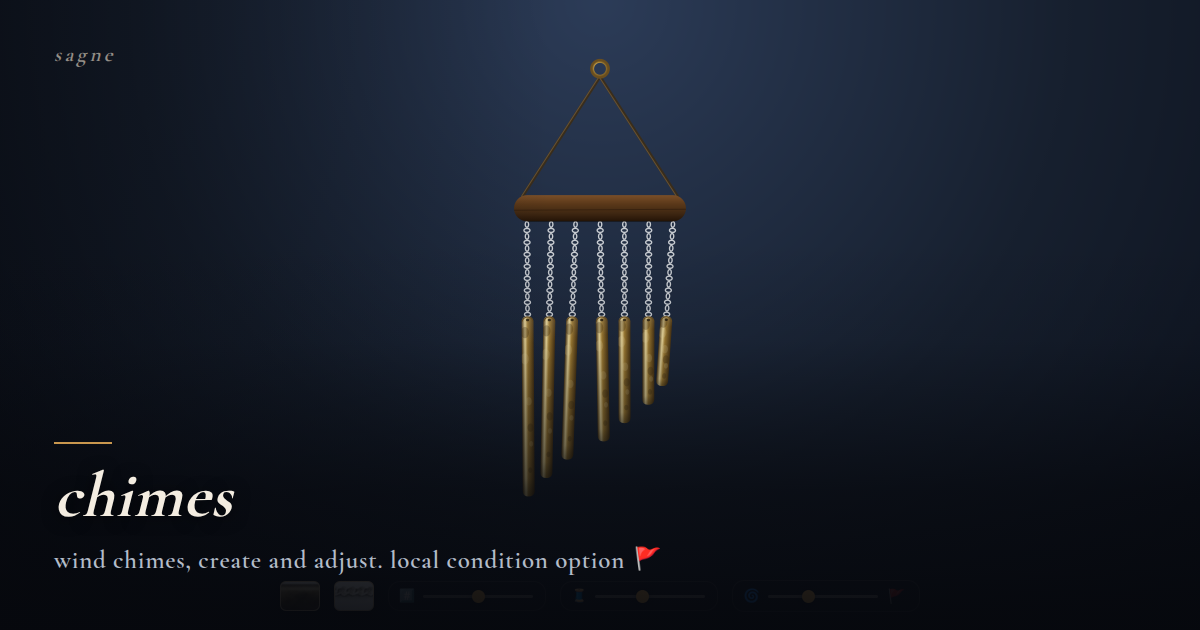
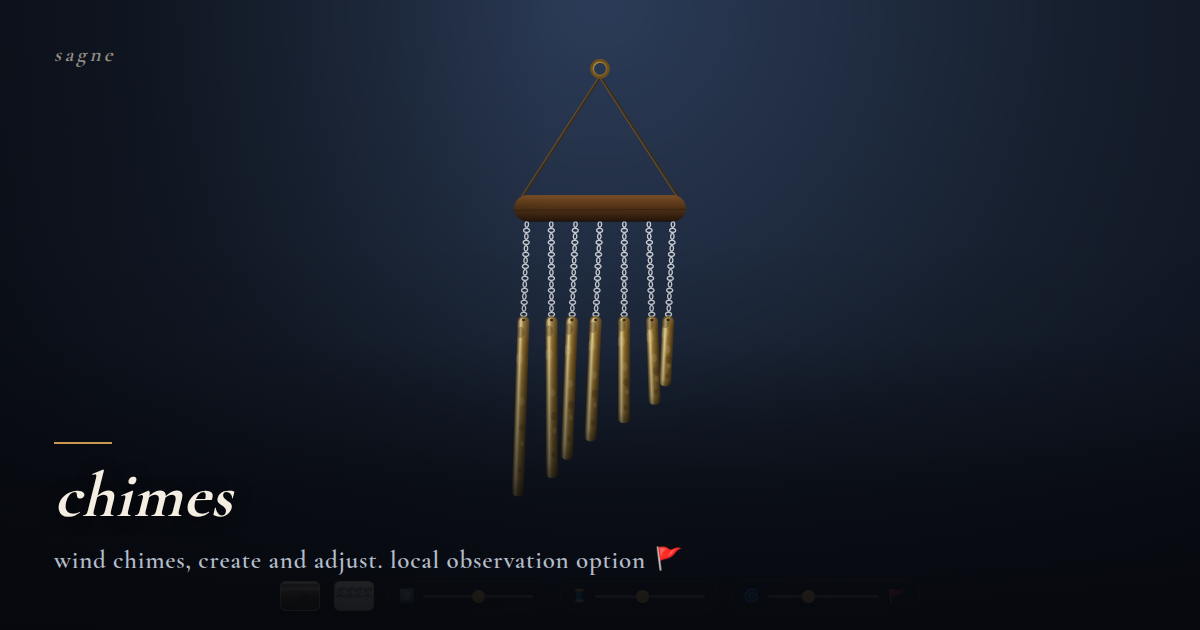
observation, not condition, on the seven
Her call after weighing telemetry, which is the literally correct word for
what these seven do and the one the software industry has spoiled: to most
readers it now means a thing collecting data about them, which is the
opposite of what this site does. Observation is the term a weather station
actually uses, nobody hears surveillance in it, and it stretches to cover
pendulum's latitude where condition did not.

Claude-Session: https://claude.ai/code/session_01FZLRpZBybpYSYBaQU5zBZo

Changed region(s): [[0.4008, 0.3619, 0.5858, 0.7841], [0.37, 0.8444, 0.555, 0.9048]]

diff --git a/windower/index.html b/windower/index.html
@@ -8,20 +8,20 @@
 <link rel="manifest" href="../manifest.json">
 <link rel="apple-touch-icon" href="../apple-touch-icon.png">
 <meta name="apple-mobile-web-app-capable" content="yes">
-<meta name="description" content="a sun, moon phase, and weather window. local condition option">
+<meta name="description" content="a sun, moon phase, and weather window. local observation option">
 <meta name="theme-color" content="#0e1c30">
 <link rel="canonical" href="https://sagne.co.uk/windower/">
 <meta property="og:type" content="website">
 <meta property="og:site_name" content="sagne">
 <meta property="og:title" content="windower — sagne">
-<meta property="og:description" content="a sun, moon phase, and weather window. local condition option">
+<meta property="og:description" content="a sun, moon phase, and weather window. local observation option">
 <meta property="og:url" content="https://sagne.co.uk/windower/">
 <meta property="og:image" content="https://sagne.co.uk/og/windower.png">
 <meta property="og:image:width" content="1200">
 <meta property="og:image:height" content="630">
 <meta name="twitter:card" content="summary_large_image">
 <meta name="twitter:title" content="windower — sagne">
-<meta name="twitter:description" content="a sun, moon phase, and weather window. local condition option">
+<meta name="twitter:description" content="a sun, moon phase, and weather window. local observation option">
 <meta name="twitter:image" content="https://sagne.co.uk/og/windower.png">
 <style>
   @import url('https://fonts.googleapis.com/css2?family=Spectral:ital,wght@0,400;0,500;1,400&family=Cormorant+Garamond:wght@500;600&display=swap');

diff --git a/fireflies/index.html b/fireflies/index.html
@@ -5,20 +5,20 @@
 <meta name="viewport" content="width=device-width, initial-scale=1.0, maximum-scale=1.0, user-scalable=no">
 <title>fireflies — sagne</title>
 <link rel="icon" type="image/svg+xml" href="../favicon.svg">
-<meta name="description" content="fireflies behavior after sunset into night. local condition option">
+<meta name="description" content="fireflies behavior after sunset into night. local observation option">
 <meta name="theme-color" content="#0e1c30">
 <link rel="canonical" href="https://sagne.co.uk/fireflies/">
 <meta property="og:type" content="website">
 <meta property="og:site_name" content="sagne">
 <meta property="og:title" content="fireflies — sagne">
-<meta property="og:description" content="fireflies behavior after sunset into night. local condition option">
+<meta property="og:description" content="fireflies behavior after sunset into night. local observation option">
 <meta property="og:url" content="https://sagne.co.uk/fireflies/">
 <meta property="og:image" content="https://sagne.co.uk/og/fireflies.png">
 <meta property="og:image:width" content="1200">
 <meta property="og:image:height" content="630">
 <meta name="twitter:card" content="summary_large_image">
 <meta name="twitter:title" content="fireflies — sagne">
-<meta name="twitter:description" content="fireflies behavior after sunset into night. local condition option">
+<meta name="twitter:description" content="fireflies behavior after sunset into night. local observation option">
 <meta name="twitter:image" content="https://sagne.co.uk/og/fireflies.png">
 <style>
   :root{ --brass:#c9974e; --parchment:#f2e9d8; }

diff --git a/conometer/index.html b/conometer/index.html
@@ -8,20 +8,20 @@
 <link rel="manifest" href="../manifest.json">
 <link rel="apple-touch-icon" href="../apple-touch-icon.png">
 <meta name="apple-mobile-web-app-capable" content="yes">
-<meta name="description" content="a pinecone responding to humidity. local condition option">
+<meta name="description" content="a pinecone responding to humidity. local observation option">
 <meta name="theme-color" content="#0e1c30">
 <link rel="canonical" href="https://sagne.co.uk/conometer/">
 <meta property="og:type" content="website">
 <meta property="og:site_name" content="sagne">
 <meta property="og:title" content="conometer — sagne">
-<meta property="og:description" content="a pinecone responding to humidity. local condition option">
+<meta property="og:description" content="a pinecone responding to humidity. local observation option">
 <meta property="og:url" content="https://sagne.co.uk/conometer/">
 <meta property="og:image" content="https://sagne.co.uk/og/conometer.png">
 <meta property="og:image:width" content="1200">
 <meta property="og:image:height" content="630">
 <meta name="twitter:card" content="summary_large_image">
 <meta name="twitter:title" content="conometer — sagne">
-<meta name="twitter:description" content="a pinecone responding to humidity. local condition option">
+<meta name="twitter:description" content="a pinecone responding to humidity. local observation option">
 <meta name="twitter:image" content="https://sagne.co.uk/og/conometer.png">
 <style>
   @import url('https://fonts.googleapis.com/css2?family=Cormorant+Garamond:wght@500;600&family=Jost:wght@300;400&display=swap');

diff --git a/storm/index.html b/storm/index.html
@@ -5,20 +5,20 @@
 <meta name="viewport" content="width=device-width, initial-scale=1.0, maximum-scale=1.0, user-scalable=no">
 <title>storm — sagne</title>
 <link rel="icon" type="image/svg+xml" href="../favicon.svg">
-<meta name="description" content="a storm glass barometer representation. local condition option">
+<meta name="description" content="a storm glass barometer representation. local observation option">
 <meta name="theme-color" content="#0e1c30">
 <link rel="canonical" href="https://sagne.co.uk/storm/">
 <meta property="og:type" content="website">
 <meta property="og:site_name" content="sagne">
 <meta property="og:title" content="storm — sagne">
-<meta property="og:description" content="a storm glass barometer representation. local condition option">
+<meta property="og:description" content="a storm glass barometer representation. local observation option">
 <meta property="og:url" content="https://sagne.co.uk/storm/">
 <meta property="og:image" content="https://sagne.co.uk/og/storm.png">
 <meta property="og:image:width" content="1200">
 <meta property="og:image:height" content="630">
 <meta name="twitter:card" content="summary_large_image">
 <meta name="twitter:title" content="storm — sagne">
-<meta name="twitter:description" content="a storm glass barometer representation. local condition option">
+<meta name="twitter:description" content="a storm glass barometer representation. local observation option">
 <meta name="twitter:image" content="https://sagne.co.uk/og/storm.png">
 <style>
   *{box-sizing:border-box; -webkit-tap-highlight-color:transparent;}

diff --git a/galileo/index.html b/galileo/index.html
@@ -8,20 +8,20 @@
 <link rel="manifest" href="../manifest.json">
 <link rel="apple-touch-icon" href="../apple-touch-icon.png">
 <meta name="apple-mobile-web-app-capable" content="yes">
-<meta name="description" content="a galileo thermometer. local condition option">
+<meta name="description" content="a galileo thermometer. local observation option">
 <meta name="theme-color" content="#0e1c30">
 <link rel="canonical" href="https://sagne.co.uk/galileo/">
 <meta property="og:type" content="website">
 <meta property="og:site_name" content="sagne">
 <meta property="og:title" content="galileo — sagne">
-<meta property="og:description" content="a galileo thermometer. local condition option">
+<meta property="og:description" content="a galileo thermometer. local observation option">
 <meta property="og:url" content="https://sagne.co.uk/galileo/">
 <meta property="og:image" content="https://sagne.co.uk/og/galileo.png">
 <meta property="og:image:width" content="1200">
 <meta property="og:image:height" content="630">
 <meta name="twitter:card" content="summary_large_image">
 <meta name="twitter:title" content="galileo — sagne">
-<meta name="twitter:description" content="a galileo thermometer. local condition option">
+<meta name="twitter:description" content="a galileo thermometer. local observation option">
 <meta name="twitter:image" content="https://sagne.co.uk/og/galileo.png">
 <style>
   @import url('https://fonts.googleapis.com/css2?family=Cormorant+Garamond:wght@500;600&family=Jost:wght@300;400&display=swap');

diff --git a/chimes/index.html b/chimes/index.html
@@ -8,20 +8,20 @@
 <link rel="manifest" href="../manifest.json">
 <link rel="apple-touch-icon" href="../apple-touch-icon.png">
 <meta name="apple-mobile-web-app-capable" content="yes">
-<meta name="description" content="wind chimes, create and adjust. local condition option">
+<meta name="description" content="wind chimes, create and adjust. local observation option">
 <meta name="theme-color" content="#141c2c">
 <link rel="canonical" href="https://sagne.co.uk/chimes/">
 <meta property="og:type" content="website">
 <meta property="og:site_name" content="sagne">
 <meta property="og:title" content="chimes — sagne">
-<meta property="og:description" content="wind chimes, create and adjust. local condition option">
+<meta property="og:description" content="wind chimes, create and adjust. local observation option">
 <meta property="og:url" content="https://sagne.co.uk/chimes/">
 <meta property="og:image" content="https://sagne.co.uk/og/chimes.png">
 <meta property="og:image:width" content="1200">
 <meta property="og:image:height" content="630">
 <meta name="twitter:card" content="summary_large_image">
 <meta name="twitter:title" content="chimes — sagne">
-<meta name="twitter:description" content="wind chimes, create and adjust. local condition option">
+<meta name="twitter:description" content="wind chimes, create and adjust. local observation option">
 <meta name="twitter:image" content="https://sagne.co.uk/og/chimes.png">
 <style>
   :root{ --brass:#c9974e; --parchment:#f2e9d8; }

diff --git a/pendulum/index.html b/pendulum/index.html
@@ -8,20 +8,20 @@
 <link rel="manifest" href="../manifest.json">
 <link rel="apple-touch-icon" href="../apple-touch-icon.png">
 <meta name="apple-mobile-web-app-capable" content="yes">
-<meta name="description" content="a foucault pendulum. local condition option">
+<meta name="description" content="a foucault pendulum. local observation option">
 <meta name="theme-color" content="#0e1c30">
 <link rel="canonical" href="https://sagne.co.uk/pendulum/">
 <meta property="og:type" content="website">
 <meta property="og:site_name" content="sagne">
 <meta property="og:title" content="pendulum — sagne">
-<meta property="og:description" content="a foucault pendulum. local condition option">
+<meta property="og:description" content="a foucault pendulum. local observation option">
 <meta property="og:url" content="https://sagne.co.uk/pendulum/">
 <meta property="og:image" content="https://sagne.co.uk/og/pendulum.png">
 <meta property="og:image:width" content="1200">
 <meta property="og:image:height" content="630">
 <meta name="twitter:card" content="summary_large_image">
 <meta name="twitter:title" content="pendulum — sagne">
-<meta name="twitter:description" content="a foucault pendulum. local condition option">
+<meta name="twitter:description" content="a foucault pendulum. local observation option">
 <meta name="twitter:image" content="https://sagne.co.uk/og/pendulum.png">
 <style>
   *{box-sizing:border-box; -webkit-tap-highlight-color:transparent;}
